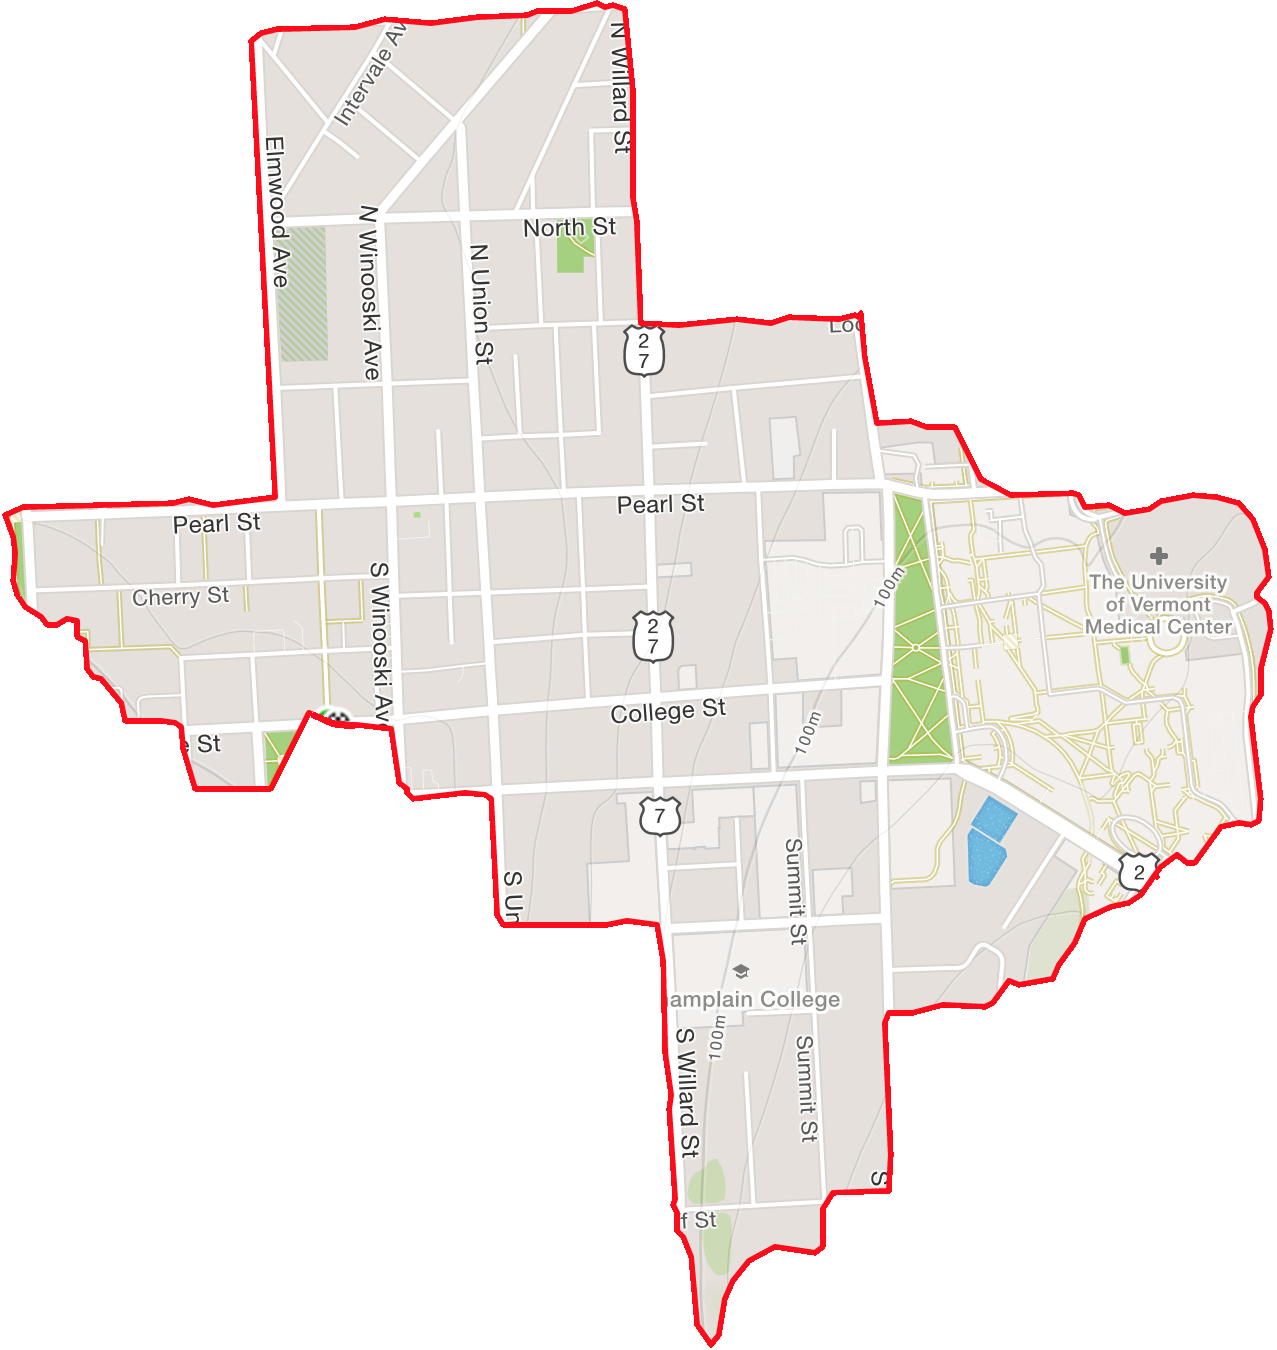
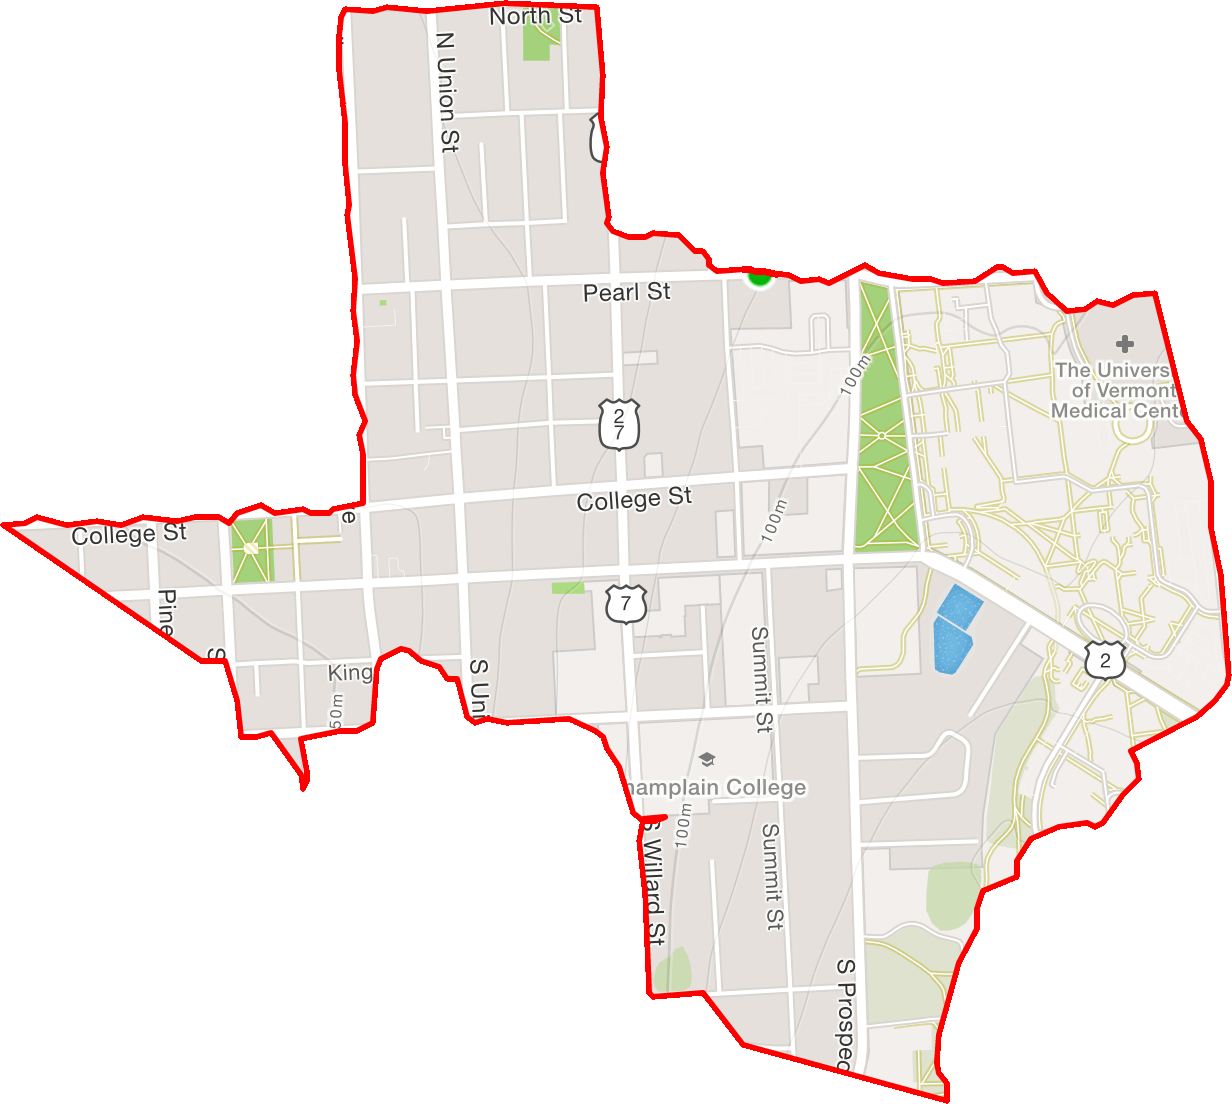
fix texas

Changed region(s): [[0.0, 0.0, 1.0, 1.0]]

diff --git a/index.html b/index.html
@@ -139,7 +139,7 @@
       <a id="SouthCarolina" href="https://www.strava.com/activities/871108592"><img src="images/SouthCarolina-Blank.png" alt="S. Carolina"/>  <span class="info"><b>South Carolina</b> (4.2 miles)  </span></a>
       <a id="SouthDakota"   href="https://www.strava.com/activities/833315868"><img src="images/SouthDakota-Blank.png"  alt="South Dakota"/>  <span class="info"><b>South Dakota</b>  (3.0 miles)  </span></a>
       <a id="Tennesse"      href="https://www.strava.com/activities/640500145"><img src="images/Tennesse-Blank.png"     alt="Tennesse"/>      <span class="info"><b>Tennessee</b>     (2.4 miles)  </span></a>
-      <a id="Texas"         href="https://www.strava.com/activities/738130217"><img src="images/Texas-Blank.png"        alt="Texas"/>         <span class="info"><b>Texas</b>         (5.2 miles)  </span></a>
+      <a id="Texas"         href="https://www.strava.com/activities/1049558388"><img src="images/Texas-Blank.png"       alt="Texas"/>         <span class="info"><b>Texas</b>         (4.0 miles)  </span></a>
       <a id="Utah"          href="https://www.strava.com/activities/771829716"><img src="images/Utah-Blank.png"         alt="Utah"/>          <span class="info"><b>Utah</b>          (2.6 miles)  </span></a>
       <a id="Vermont"       href="https://www.strava.com/activities/632919655"><img src="images/Vermont-Blank.png"      alt="Vermont"/>       <span class="info"><b>Vermont</b>       (2.4 miles)  </span></a>
       <a id="Virginia"      href="https://www.strava.com/activities/959474323"><img src="images/Virginia-Blank.png"     alt="Virginia"/>      <span class="info"><b>Virginia</b>      (4.3 miles)  </span></a>

diff --git a/style.css b/style.css
@@ -198,7 +198,7 @@ h3 {
 #SouthCarolina img {top: 57.8%; left: 74.3%;  width:9%;    transform: scaleY(.95)rotate(-8deg  );}
 #SouthDakota   img {top: 21.3%; left: 37%;    width:12.5%; transform: scaleY(.95)rotate(5deg  );}
 #Tennesse      img {top: 53.2%; left: 60.5%;  width:15.3%; transform: scaleY(0.75)rotate(-4deg);}
-#Texas         img {top: 58.5%; left: 31%;    width:24%;   transform: scaleY(1.05)rotate(4deg ); z-index: 1;}
+#Texas         img {top: 57.1%; left: 29.1%;  width:25.2%; transform: scaleY(1.0)rotate(6deg ); z-index: 1;}
 #Utah          img {top: 33.9%; left: 18.5%;  width:8.6%;  transform: scaleY(1.15)rotate(12deg);}
 #Vermont       img {top: 18.3%; left: 87%;    width:2.75%; transform: scaleY(1.3)rotate(-10deg);}
 #Virginia      img {top: 42.6%; left: 72.7%;  width:12.7%; transform: scaleY(0.88)rotate(-11deg);}
